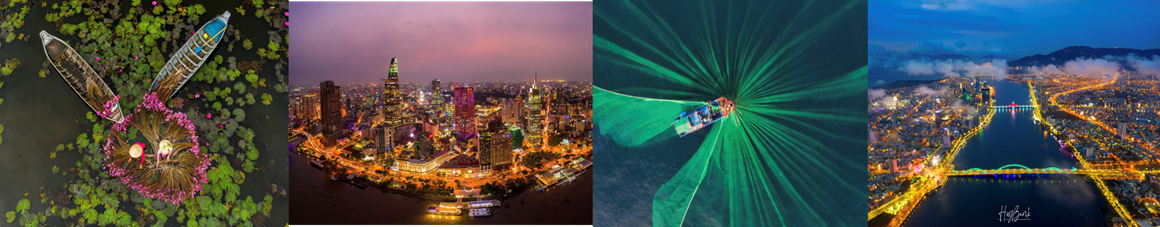
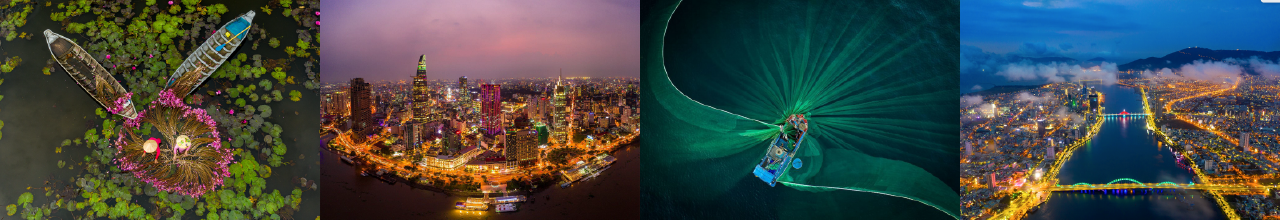
edit image
edit image

diff --git a/index.html b/index.html
@@ -87,7 +87,7 @@
             <div class="col-sm">
                 <div>
                     <div class="d-flex justify-content-center">
-                        <img src="static/images/danh_ca.jpg" style="height: 250px;">
+                        <img src="static/images/bitexco.jpg" style="height: 250px;">
                     </div>
                     <p class="service-title"> BUSINESS DEVELOPMENT</p>
                     <ul>
@@ -102,7 +102,7 @@
 
                 <div>
                     <div class="d-flex justify-content-center">
-                        <img src="static/images/hcm.jpg" style="height: 250px;">
+                        <img src="static/images/danh_ca.jpg" style="height: 250px;">
                     </div>
                     <p class="service-title"> SOURCING</p>
                     <ul>

diff --git a/static/css/main.css b/static/css/main.css
@@ -52,6 +52,7 @@ footer .col-sm{
 .service-title{
     margin-left: 28%;
     padding-left: 40px;
+    margin-top: 20px;
 }
 
 .work-btn {
